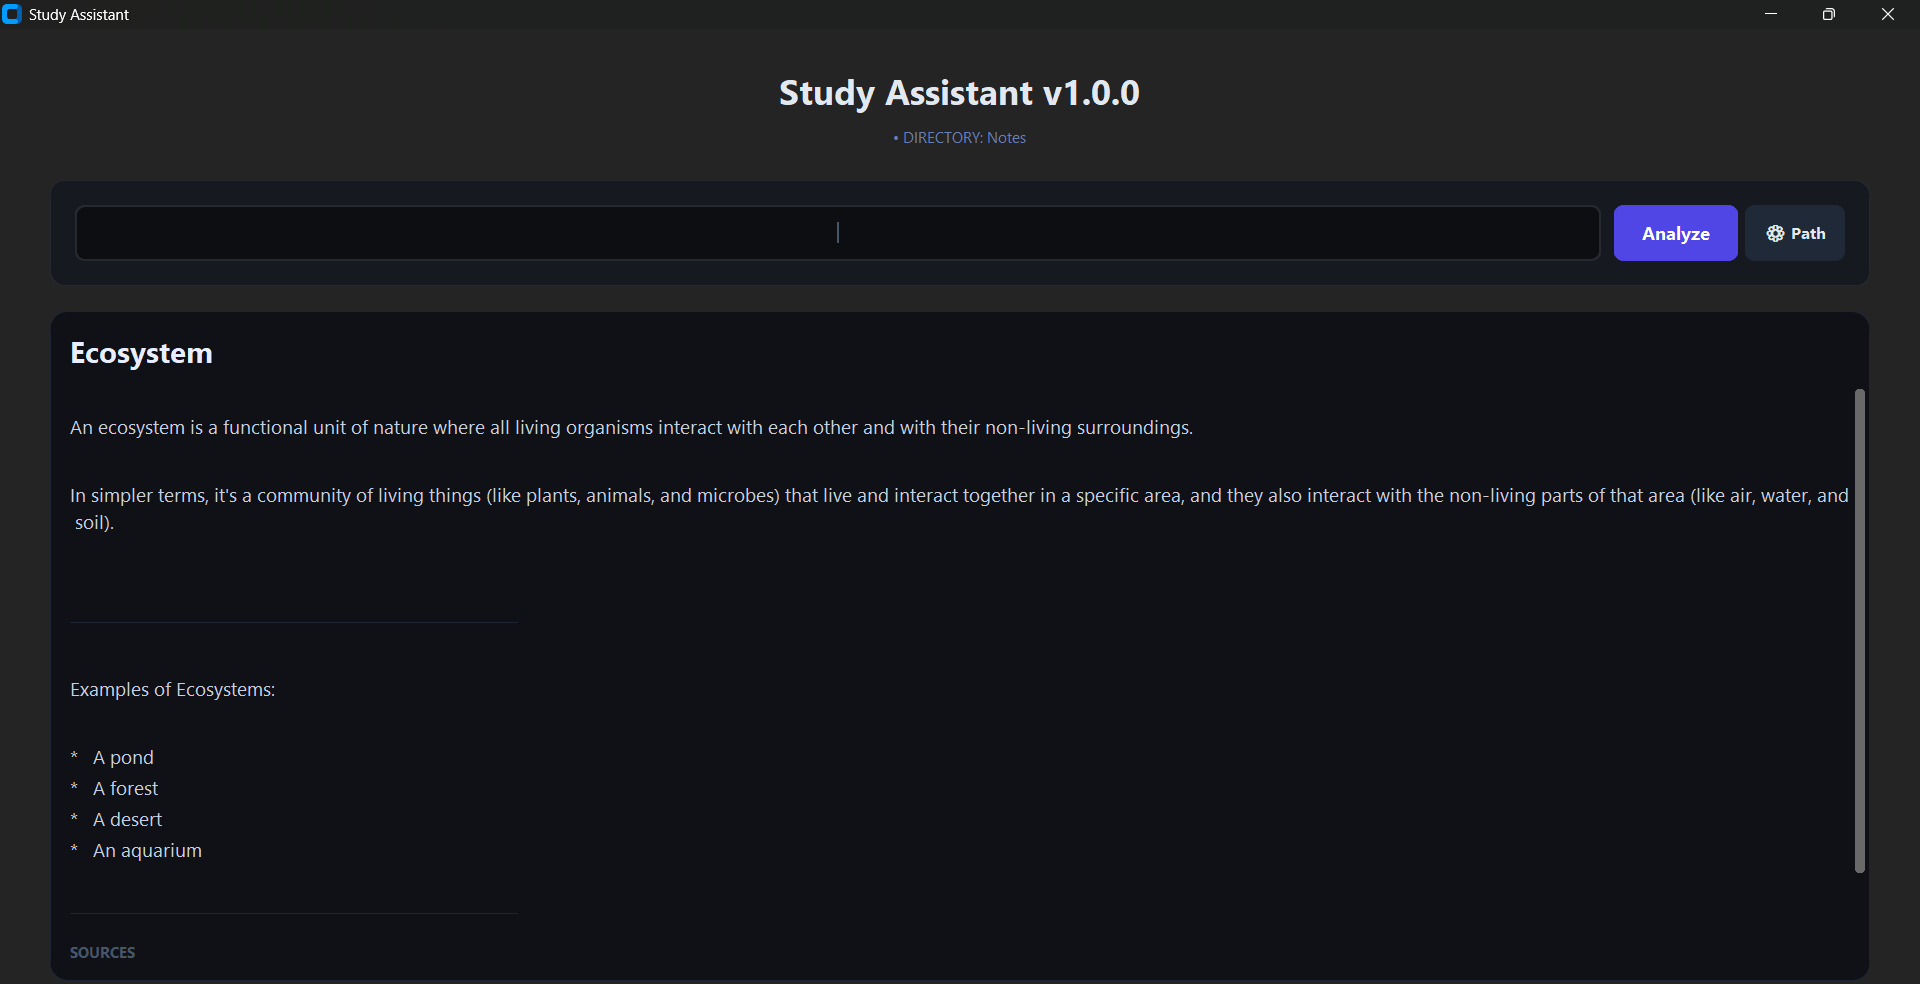
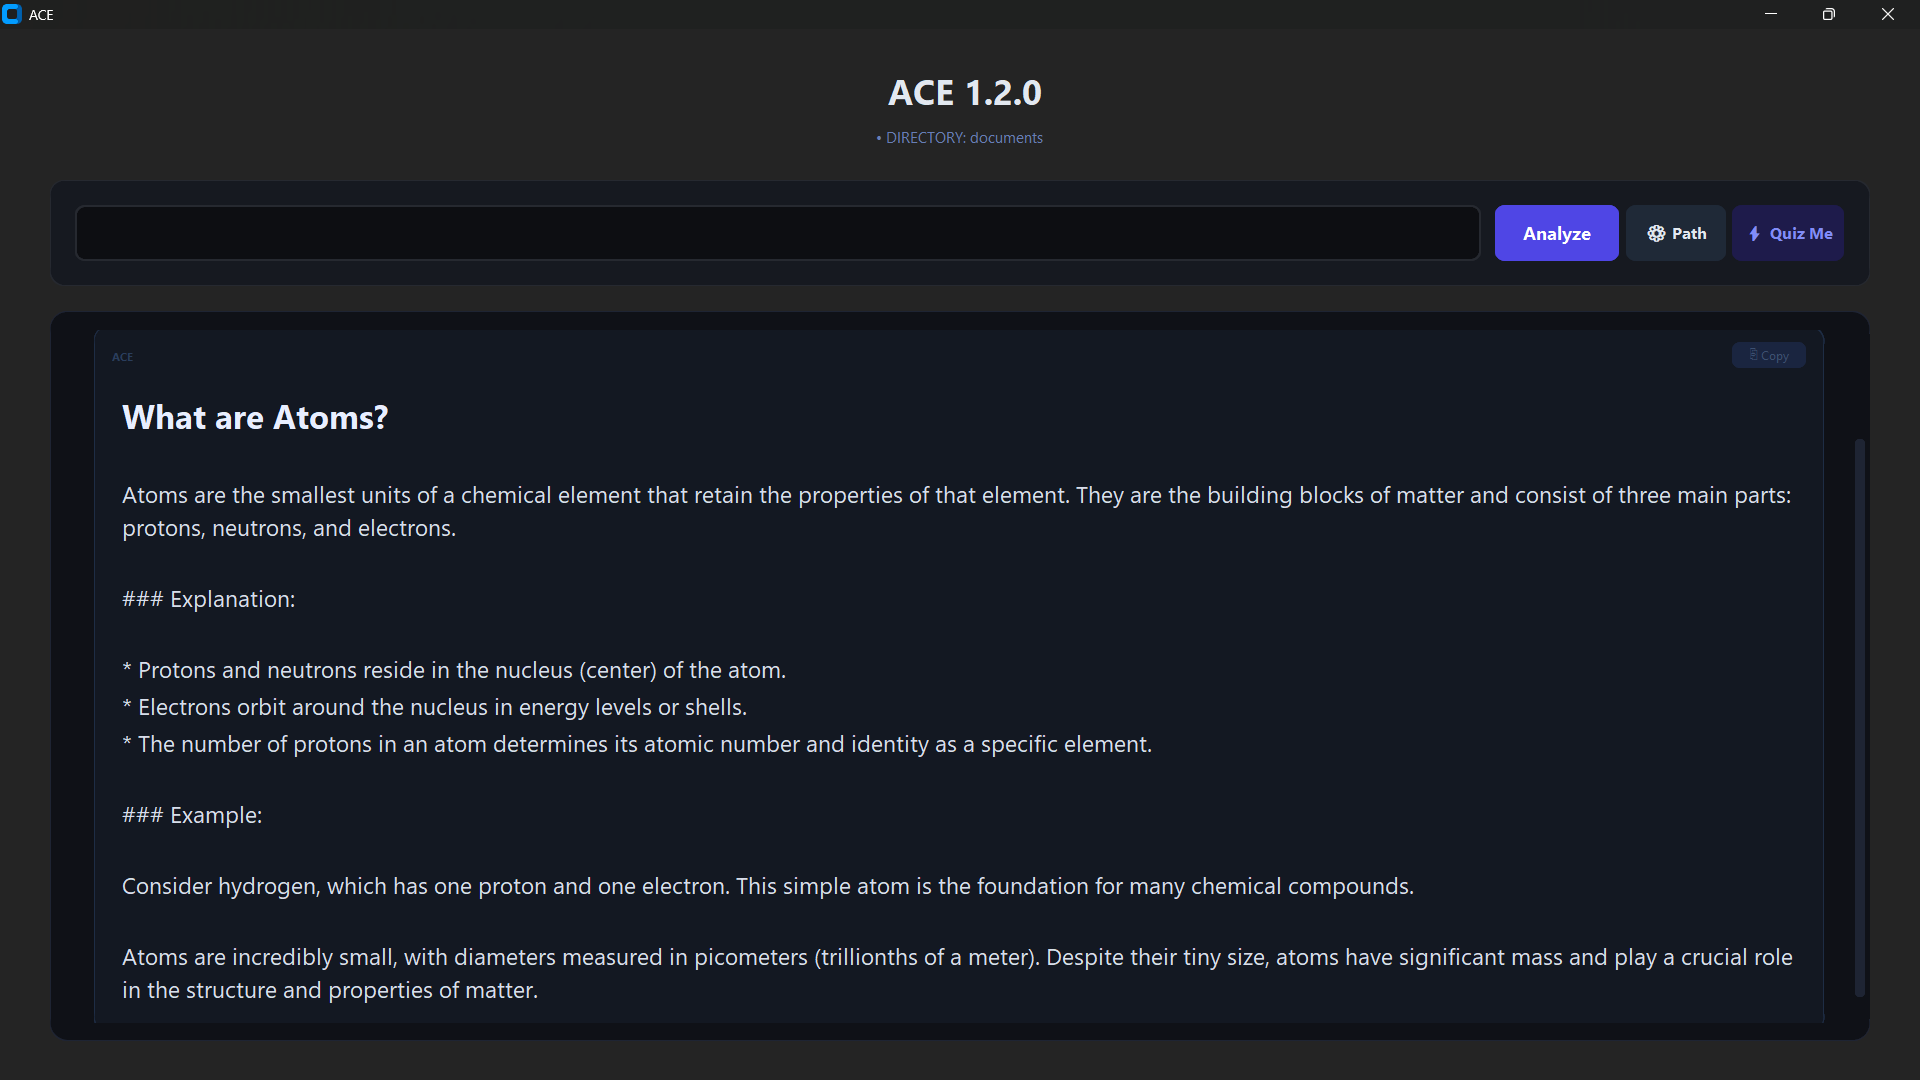
CHANGE IN README

diff --git a/config.py b/config.py
@@ -39,16 +39,16 @@ PROVIDERS = [
 ]
 
 # UI colour palette
-BG_MAIN = "#0D0E12"        # Deep obsidian base, root window background
-BG_CARD = "#161920"        # Slightly elevated slate for card / panel surfaces
-BORDER_COLOR = "#262930"   # Subtle border that separates cards
-ACCENT_COLOR = "#4F46E5"   # Primary indigo, CTAs and progress indicators
-ACCENT_HOVER = "#4338CA"   # Darker indigo for button hover state
+BG_MAIN = "#0D0E12"  # Deep obsidian base, root window background
+BG_CARD = "#161920"  # Slightly elevated slate for card / panel surfaces
+BORDER_COLOR = "#262930"  # Subtle border that separates cards
+ACCENT_COLOR = "#4F46E5"  # Primary indigo, CTAs and progress indicators
+ACCENT_HOVER = "#4338CA"  # Darker indigo for button hover state
 
-TEXT_PRIMARY = "#E2E8F0"       # High-contrast white-slate for headings and labels
-TEXT_SECONDARY = "#94A3B8"     # Muted slate gray for body copy
-TEXT_DISABLED = "#475569"      # Receding gray for placeholders and hints
-TEXT_INTERACTIVE = "#F2F0E8"   # Warm off-white for interactive accent highlights
+TEXT_PRIMARY = "#E2E8F0"  # High-contrast white-slate for headings and labels
+TEXT_SECONDARY = "#94A3B8"  # Muted slate gray for body copy
+TEXT_DISABLED = "#475569"  # Receding gray for placeholders and hints
+TEXT_INTERACTIVE = "#F2F0E8"  # Warm off-white for interactive accent highlights
 
 
 def get_resource_path(filename):
@@ -70,7 +70,7 @@ def get_resource_path(filename):
 
 # Persistent application directory in the user's APPDATA folder
 APP_DIR = Path(os.getenv("APPDATA")) / "Ace"
-APP_DIR.mkdir(parents=True, exist_ok=True)   # Create on first run if absent
+APP_DIR.mkdir(parents=True, exist_ok=True)  # Create on first run if absent
 
 # JSON file that stores user preferences (e.g. notes folder path)
 SETTINGS_FILE = APP_DIR / "settings.json"
@@ -78,7 +78,7 @@ SETTINGS_FILE = APP_DIR / "settings.json"
 # JSON list of common English stop words used during keyword extraction
 STOP_WORDS_FILE = get_resource_path("STOP_WORDS.json")
 
-APP_VERSION = "1.0.0"
+APP_VERSION = "1.2.0"
 
 # Cached sentence-transformer embeddings persisted between sessions to avoid
 # re-encoding unchanged files on every launch

diff --git a/README.md b/README.md
@@ -10,23 +10,20 @@ Built for students, self-learners, researchers, and anyone who maintains large c
 
 ## Preview
 
-### Loading Screen
-![Loading Screen](SCREENSHOTS/LOADING_SCREEN.png)
-
 ### Main Interface
 ![Main Interface](SCREENSHOTS/MAIN_UI.png)
-
-### Actual Notes
-![Actual Notes](SCREENSHOTS/BIOLOGY.png)
-
-### Asking a Question
-### WHAT IS AN ECOSYSTEM?
-
-### Generated Answer
-![Generated Answer](SCREENSHOTS/ANSWER.png)
-
-### Generated Answer 2
-![Generated Answer 2](SCREENSHOTS/ANSWERS.png)
+---
+### Question
+![Question](SCREENSHOTS/QUESTION.png)
+----
+### ANSWER
+![ANSWER](SCREENSHOTS/ANSWER.png)
+---
+### QUIZ
+![QUIZ](SCREENSHOTS/QUIZ.png)
+---
+### RESULTS
+![RESULTS](SCREENSHOTS/RESULTS.png)
 
 ---
 
@@ -48,7 +45,8 @@ Built for students, self-learners, researchers, and anyone who maintains large c
   - Groq
   - OpenRouter
 - Offline mode via Ollama — works without internet
-
+- Now has an exe file support for users who dont want the setup hassle.
+- The Quiz mode is now available. You can test yourself on your notes. 
 ---
 
 ## Online vs Offline
@@ -117,8 +115,8 @@ CNN vs RNN.txt
 ### 1. Clone the Repository
 
 ```bash
-git clone https://github.com/YOUR_USERNAME/Study-Assistant.git
-cd Study-Assistant
+git clone https://github.com/YOUR_USERNAME/Ace.git
+cd Ace
 ```
 
 ### 2. Create a Virtual Environment
@@ -278,11 +276,7 @@ Instead of manually opening dozens of files, users can ask questions and receive
 - Multi-provider cloud AI fallback
 - Offline mode via Ollama
 
-### Version 1.1
-- Copy answer button
-- Quiz mode
-- Export answers
-- Note statistics and analytics
+
 
 ### Future
 - Cross-platform packaging
@@ -293,7 +287,6 @@ Instead of manually opening dozens of files, users can ask questions and receive
 ## Contributing
 
 Contributions, suggestions, bug reports, and feature requests are welcome.
-
 If you find a bug or have an idea for improvement, open an issue.
 
 ---